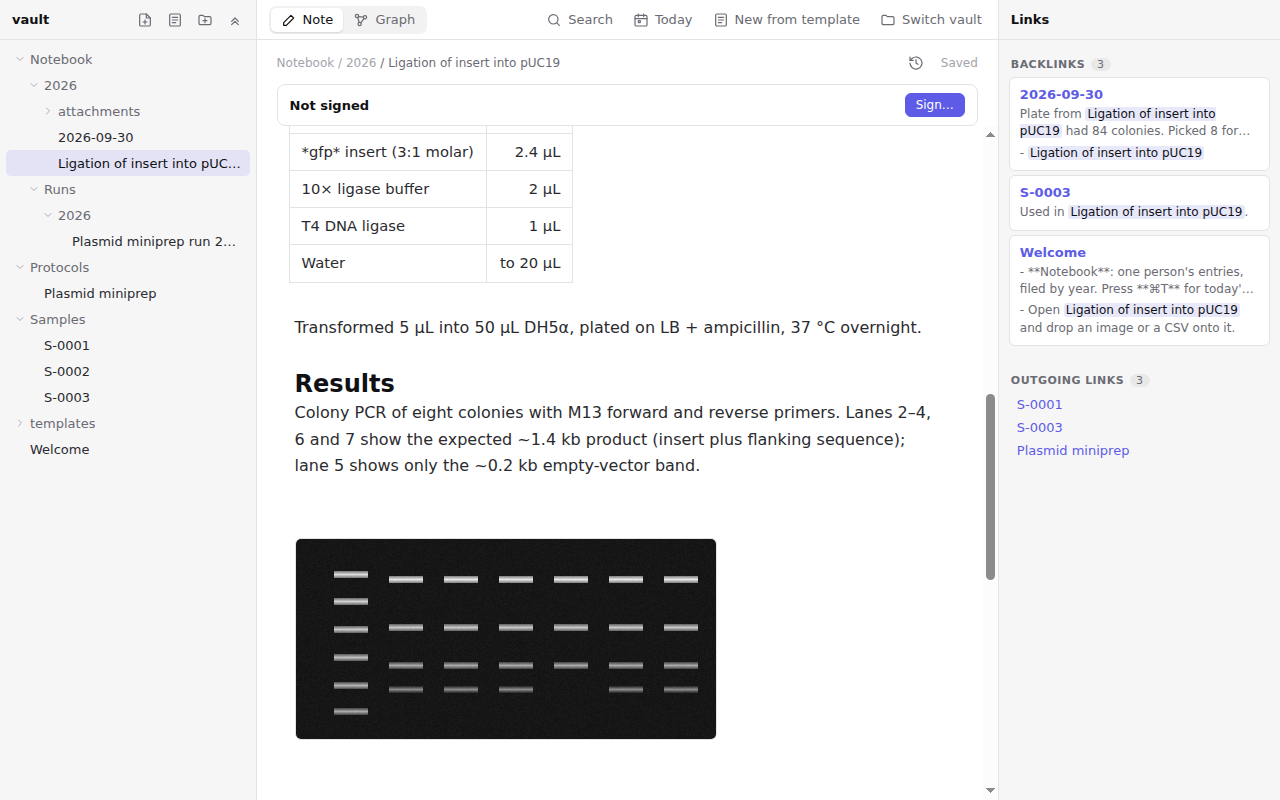
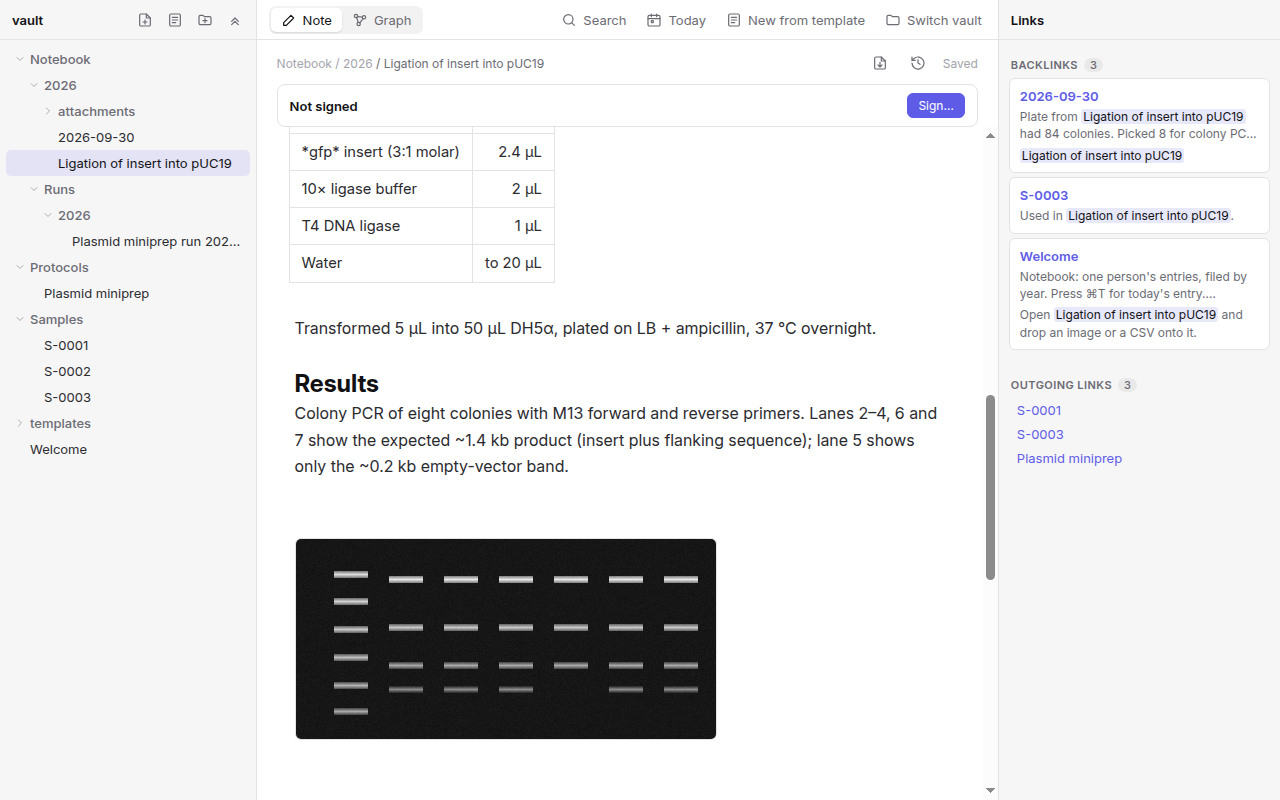
Polish: SF Pro-style typography everywhere, readable backlinks, a starting point
- Fonts: macOS keeps San Francisco (SF Pro, SF Mono), which can't be
  shipped to other platforms. Windows and Linux now get Inter, with
  optical sizing like SF Pro, and JetBrains Mono for code, bundled with
  the app (both SIL Open Font License) instead of falling back to
  whatever the system has. The website uses Inter too, and its
  screenshots are retaken with the new look.
- Backlink snippets are plain text: list markers, checkboxes, headings,
  emphasis, code ticks and link syntax are removed, and [[links]] stay
  highlighted (shared/notes/snippet.ts, with tests).
- With no note open, Prem suggests where to start, based on what you can
  write: today's entry, a new experiment or note in your notebook, or a
  protocol. A team member who can only write their own notebook now gets
  these too, rather than a read-only hint.

Claude-Session: https://claude.ai/code/session_01NrDvjvRVMJR4zo4ugwGkky

diff --git a/src/renderer/src/App.tsx b/src/renderer/src/App.tsx
@@ -139,27 +139,42 @@ function Shell() {
 
 function EmptyState() {
   const ws = useWorkspace()
-  const { canWrite } = useVault()
-  if (!canWrite('')) {
+  const { info, canWrite } = useVault()
+  const notebook = notebookFolder(info?.user)
+  const canKeepNotebook = canWrite(notebook)
+  const canWriteProtocols = canWrite('Protocols')
+  if (!canKeepNotebook && !canWriteProtocols) {
     return (
       <div className="empty-state">
         <p>No note open.</p>
-        <p className="hint">Pick a note from the list on the left. ⌘G shows the graph.</p>
+        <p className="hint">Pick a note from the list on the left. ⌘K searches everything you can read.</p>
       </div>
     )
   }
   return (
     <div className="empty-state">
-      <p>No note open.</p>
+      <p className="empty-title">What are you working on?</p>
       <div className="empty-actions">
-        <button className="primary-button" onClick={() => void ws.createNote('')}>
-          New note
-        </button>
-        <button className="text-button" onClick={() => ws.showTemplatePicker('')}>
-          New from template
-        </button>
+        {canKeepNotebook && (
+          <button className="primary-button" onClick={() => void ws.openToday()}>
+            Today&apos;s entry <kbd>⌘T</kbd>
+          </button>
+        )}
+        {canKeepNotebook && (
+          <button className="text-button" onClick={() => ws.showTemplatePicker(notebook)}>
+            New experiment or note
+          </button>
+        )}
+        {canWriteProtocols && (
+          <button className="text-button" onClick={() => ws.showTemplatePicker('Protocols')}>
+            Write a protocol
+          </button>
+        )}
       </div>
-      <p className="hint">⌘K search · ⌘T today · ⌘N new note · ⌘⇧N from template · ⌘G graph · ⌘S save</p>
+      <p className="hint">
+        Open a protocol and choose Start run to record a run step by step. ⌘K searches everything; ⌘G shows how notes
+        link.
+      </p>
     </div>
   )
 }

diff --git a/src/shared/notes/snippet.test.ts b/src/shared/notes/snippet.test.ts
@@ -1,0 +1,35 @@
+import { describe, expect, it } from 'vitest'
+import { plainSnippet } from './snippet'
+
+describe('plainSnippet', () => {
+  it('removes list markers, checkboxes, headings and quotes', () => {
+    expect(plainSnippet('- [[Ligation of insert into pUC19]]')).toBe('[[Ligation of insert into pUC19]]')
+    expect(plainSnippet('  1. [x] Pellet cells ✓ 14:12 [[S-0001]]')).toBe('Pellet cells ✓ 14:12 [[S-0001]]')
+    expect(plainSnippet('## Samples from [[Freezer B]]')).toBe('Samples from [[Freezer B]]')
+    expect(plainSnippet('> Note from [[PI meeting]]')).toBe('Note from [[PI meeting]]')
+  })
+
+  it('removes emphasis, code and link syntax', () => {
+    expect(plainSnippet("- **Notebook**: one person's entries. Press **⌘T** for [[Today]]")).toBe(
+      "Notebook: one person's entries. Press ⌘T for [[Today]]"
+    )
+    expect(plainSnippet('Use `T4 ligase` from _the_ [kit sheet](attachments/kit.pdf) with [[Ligation]]')).toBe(
+      'Use T4 ligase from the kit sheet with [[Ligation]]'
+    )
+    expect(plainSnippet('![gel](attachments/gel.png) ~~old~~ <b>new</b> [[Gel]]')).toBe('gel old new [[Gel]]')
+  })
+
+  it('leaves wikilinks with underscores and stars alone', () => {
+    expect(plainSnippet('see [[run_2026_09*draft]] and *this*')).toBe('see [[run_2026_09*draft]] and this')
+  })
+
+  it('keeps arithmetic and snake_case words', () => {
+    expect(plainSnippet('2 * 3 * 4 wells in plate_layout_v2 [[Plate]]')).toBe(
+      '2 * 3 * 4 wells in plate_layout_v2 [[Plate]]'
+    )
+  })
+
+  it('drops the embed mark from embedded notes', () => {
+    expect(plainSnippet('![[Protocol card]]')).toBe('[[Protocol card]]')
+  })
+})

diff --git a/e2e/notebook.spec.ts b/e2e/notebook.spec.ts
@@ -97,11 +97,20 @@ test('previews an attached Jupyter notebook without running it', async ({ prem: 
     .toEqual([expect.stringMatching(/Growth curve analysis\.ipynb$/)])
 })
 
-test('keeps a new vault usable from an empty folder', async () => {
+test('offers a starting point in a new, empty vault', async () => {
   const vault = await tempDir('empty')
   const { app, page } = await launch({ vault })
   await expect(page.locator('.file-tree [title="templates"]')).toBeVisible()
-  await page.keyboard.press('ControlOrMeta+n')
-  await expect(page.locator('.file-tree input')).toBeVisible()
+  await expect(page.locator('.empty-state')).toContainText('What are you working on?')
+  await expect(page.getByRole('button', { name: 'Write a protocol' })).toBeVisible()
+  await page.getByRole('button', { name: /Today's entry/ }).click()
+  await expect(page.locator('.breadcrumb')).toHaveAttribute('title', /^Notebook\/\d{4}\/\d{4}-\d\d-\d\d\.md$/)
   await app.close()
+})
+
+test('shows backlinks as readable text', async ({ prem: { page } }) => {
+  await openNote(page, 'Notebook/2026/Ligation of insert into pUC19.md')
+  const welcome = page.locator('.side-panel .snippet').filter({ hasText: 'Notebook:' })
+  await expect(welcome.first()).toBeVisible()
+  await expect(page.locator('.side-panel .snippet').filter({ hasText: '**' })).toHaveCount(0)
 })

diff --git a/src/renderer/src/styles/app.css b/src/renderer/src/styles/app.css
@@ -32,8 +32,9 @@
   --graph-node: #8a8a94;
   --graph-unresolved: #cfcfd6;
   --graph-link: rgba(0, 0, 0, 0.14);
-  --font-text: -apple-system, BlinkMacSystemFont, 'Segoe UI', Inter, system-ui, sans-serif;
-  --font-mono: 'SF Mono', ui-monospace, Menlo, Consolas, monospace;
+  /* SF Pro on macOS; Inter (bundled, the closest open font) everywhere else. */
+  --font-text: -apple-system, BlinkMacSystemFont, 'Inter Variable', 'Segoe UI', system-ui, sans-serif;
+  --font-mono: 'SF Mono', ui-monospace, 'JetBrains Mono Variable', Menlo, Consolas, monospace;
   --editor-width: 760px;
 }
 
@@ -91,7 +92,9 @@ body {
   color: var(--text);
   font-family: var(--font-text);
   font-size: 14px;
+  font-optical-sizing: auto;
   -webkit-font-smoothing: antialiased;
+  text-rendering: optimizeLegibility;
   overflow: hidden;
 }
 
@@ -423,6 +426,28 @@ button {
   gap: 12px;
   height: 100%;
   color: var(--text-muted);
+}
+
+.empty-title {
+  margin: 0;
+  color: var(--text-strong);
+  font-size: 1.15em;
+  font-weight: 600;
+}
+
+.empty-state .hint {
+  max-width: 420px;
+  text-align: center;
+}
+
+kbd {
+  margin-left: 6px;
+  padding: 0 4px;
+  border-radius: 4px;
+  background: rgba(255, 255, 255, 0.2);
+  font: inherit;
+  font-size: 0.85em;
+  opacity: 0.85;
 }
 
 .empty-actions {

diff --git a/site/style.css b/site/style.css
@@ -1,3 +1,26 @@
+/* Inter (SIL Open Font License), for systems without San Francisco. */
+@font-face {
+  font-family: 'Inter Variable';
+  font-style: normal;
+  font-display: swap;
+  font-weight: 100 900;
+  src: url(assets/fonts/inter-latin-ext-opsz-normal.woff2) format('woff2-variations');
+  unicode-range:
+    U+0100-02BA, U+02BD-02C5, U+02C7-02CC, U+02CE-02D7, U+02DD-02FF, U+0304, U+0308, U+0329, U+1D00-1DBF, U+1E00-1E9F,
+    U+1EF2-1EFF, U+2020, U+20A0-20AB, U+20AD-20C0, U+2113, U+2C60-2C7F, U+A720-A7FF;
+}
+
+@font-face {
+  font-family: 'Inter Variable';
+  font-style: normal;
+  font-display: swap;
+  font-weight: 100 900;
+  src: url(assets/fonts/inter-latin-opsz-normal.woff2) format('woff2-variations');
+  unicode-range:
+    U+0000-00FF, U+0131, U+0152-0153, U+02BB-02BC, U+02C6, U+02DA, U+02DC, U+0304, U+0308, U+0329, U+2000-206F, U+20AC,
+    U+2122, U+2191, U+2193, U+2212, U+2215, U+FEFF, U+FFFD;
+}
+
 :root {
   --bg: #ffffff;
   --bg-soft: #f6f6fb;
@@ -37,8 +60,9 @@ body {
   background: var(--bg);
   color: var(--text);
   font:
-    17px/1.6 system-ui,
-    -apple-system,
+    17px/1.6 -apple-system,
+    BlinkMacSystemFont,
+    'Inter Variable',
     'Segoe UI',
     Roboto,
     sans-serif;

diff --git a/src/shared/notes/snippet.ts b/src/shared/notes/snippet.ts
@@ -1,0 +1,26 @@
+/**
+ * Turns one line of markdown into readable text for a backlink snippet: list markers, checkboxes,
+ * headings, emphasis, code ticks, links and images become plain text. [[Wikilinks]] are kept so the
+ * panel can highlight them.
+ */
+export function plainSnippet(line: string): string {
+  const links: string[] = []
+  let text = line
+    // Protect wikilinks from the emphasis rules (names can contain _ or *).
+    .replace(/!?\[\[[^[\]\n]+\]\]/g, (m) => `\uE000${links.push(m.replace(/^!/, '')) - 1}\uE000`)
+    .replace(/^\s{0,3}>\s?/, '')
+    .replace(/^\s{0,3}#{1,6}\s+/, '')
+    .replace(/^\s*(?:[-*+]|\d+[.)])\s+/, '')
+    .replace(/^\[[ xX]\]\s+/, '')
+    .replace(/!\[([^\]]*)\]\([^)]*\)/g, '$1')
+    .replace(/\[([^\]]+)\]\([^)]*\)/g, '$1')
+    .replace(/<[^>]+>/g, '')
+    .replace(/`([^`]+)`/g, '$1')
+    .replace(/(\*\*|__)(?=\S)(.+?)(?<=\S)\1/g, '$2')
+    .replace(/(?<![\w*])([*_])(?=\S)(.+?)(?<=\S)\1(?![\w*])/g, '$2')
+    .replace(/~~(.+?)~~/g, '$1')
+    .replace(/\s+/g, ' ')
+    .trim()
+  text = text.replace(/\uE000(\d+)\uE000/g, (_, i: string) => links[Number(i)])
+  return text
+}

diff --git a/src/renderer/src/components/Backlinks/BacklinksPanel.tsx b/src/renderer/src/components/Backlinks/BacklinksPanel.tsx
@@ -1,14 +1,21 @@
 import { useMemo } from 'react'
+import { plainSnippet } from '@shared/notes/snippet'
+import { splitLinkText } from '@shared/notes/wikilinks'
 import { noteTitle } from '@shared/vault/paths'
 import { useLinkIndex } from '../../state/LinkIndexContext'
 import { useWorkspace } from '../../state/WorkspaceContext'
 
+function linkLabel(inner: string): string {
+  const { target, alias } = splitLinkText(inner)
+  return alias ?? target
+}
+
 function Snippet({ text }: { text: string }) {
-  const parts = text.split(/(\[\[[^[\]\n]+\]\])/)
+  const parts = plainSnippet(text).split(/(\[\[[^[\]\n]+\]\])/)
   return (
     <p className="snippet">
       {parts.map((part, i) =>
-        part.startsWith('[[') ? <mark key={i}>{part.slice(2, -2).split('|').pop()}</mark> : <span key={i}>{part}</span>
+        part.startsWith('[[') ? <mark key={i}>{linkLabel(part.slice(2, -2))}</mark> : <span key={i}>{part}</span>
       )}
     </p>
   )

diff --git a/src/renderer/src/main.tsx b/src/renderer/src/main.tsx
@@ -1,6 +1,11 @@
 import { StrictMode } from 'react'
 import { createRoot } from 'react-dom/client'
 import 'katex/dist/katex.min.css'
+// Bundled fonts for Windows and Linux. macOS uses its own San Francisco (SF Pro and SF Mono) first.
+import '@fontsource-variable/inter/opsz.css'
+import '@fontsource-variable/inter/opsz-italic.css'
+import '@fontsource-variable/jetbrains-mono/index.css'
+import '@fontsource-variable/jetbrains-mono/wght-italic.css'
 import './styles/app.css'
 import './styles/editor.css'
 import { App } from './App'

diff --git a/CHANGELOG.md b/CHANGELOG.md
@@ -23,6 +23,11 @@ Everything below will ship as **0.1.0**, the first pilot release.
 - **Server packages**: the team server as a Docker image on GitHub Container Registry and as a single file for Node.js.
 - **Project**: Apache-2.0 license, CI, Prettier and oxlint, end-to-end tests of the app and team server in CI, contributor guide, security policy, code of conduct, issue and pull request templates, Dependabot and CodeQL, `docs/ARCHITECTURE.md`, a release workflow, `THIRD_PARTY_NOTICES.md` in every installer, a website on GitHub Pages, and a lab sample vault in `examples/sample-vault/`.
 
+### Changed
+- **Typography**: San Francisco (SF Pro and SF Mono) on macOS as before, and now **Inter** and **JetBrains Mono**, bundled, on Windows and Linux instead of whatever the system had. The website uses Inter too.
+- A new or empty vault suggests where to start: today's entry, a new experiment, or a protocol, depending on what you can write.
+- Backlinks show readable text instead of raw markdown.
+
 ### Fixed
 - Clicking a template quickly could create the note from the previously highlighted template instead.
 
